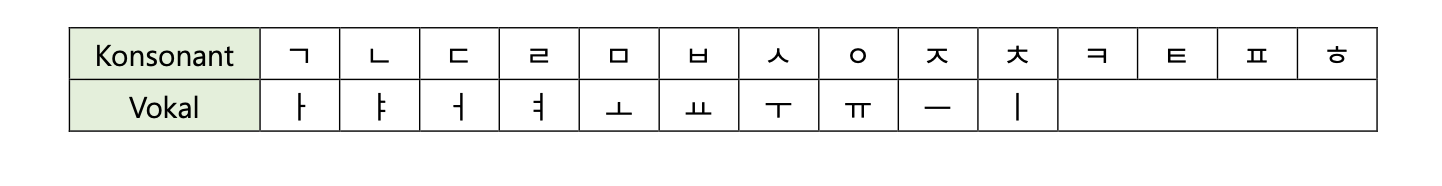
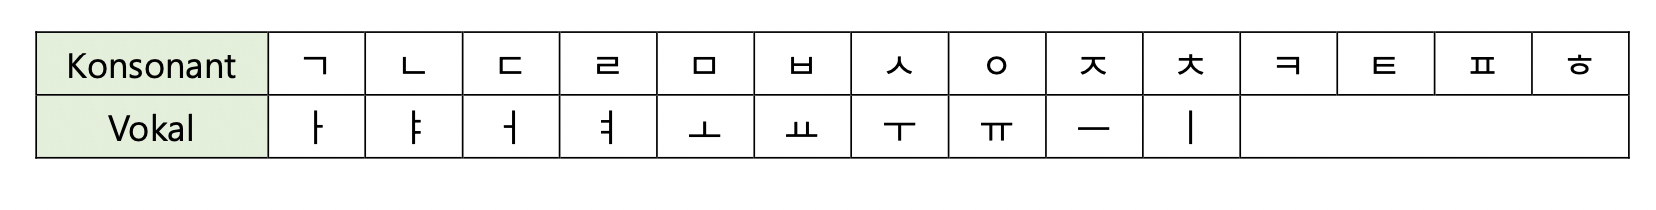
Bytt ut bilder i article och header, lagt in länk till mail, skrivit ett recept i aside och ändrat i marginaler på en del grejer..
Bytt ut bilder på sidan samt header, lagt in länk till mail, skrivit ett recept i aside samt ändrat lite på marginalerna på en del grejer.

Changed region(s): [[0.0, 0.1344, 0.9986, 0.7796]]

diff --git a/food.html b/food.html
@@ -13,22 +13,13 @@
 </head>
 
 <body>
-
-
-
-    font-size: 4rem;
-    background-color: rgba(255, 255, 255, 0.5);
-    color: black;
-    padding: 1rem;
-    }
-    </style>
     
     <header>
 
 
         <link rel="stylesheet" href="styles/style.css">
 
-        <img src="images/koreanfood.jpg" alt="bild på Bibimbap">
+        <img src="images/foodheader.jpg" alt="bild på koreansk mat">
         <span></span>
 
 
@@ -51,20 +42,54 @@
 
     <aside>
 
-        <h2>Några populära rätter</h2>
+        <style>aside li {
+            text-align: left;
+            margin-left: 40px;
+            }</style>
+
+        <h2>Recept på Bibimbap</h2>
         <div>
 
+            <h3>Ingredienser:</h3>
+            
+                <li>500 g strimlad lövbiff</li><br>
+                <li>1 msk kinesisk soja</li><br>
+                <li>2 msk riven färsk ingefära</li><br>
+                <li>1 tsk sesamolja</li><br>
+                <li>1 hackad vitlöksklyfta</li><br>
+                <li>1 msk olja</li><br>
+                <li>3 msk japansk soja</li><br>
+                <li>150 g böngroddar</li><br>
+                <li>½ gurka i tunna skivor</li><br>
+                <li>2 krm salt</li><br>
+                <li>1 msk vitvinsvinäger</li><br>
+                <li>2 tsk sesamolja</li><br>
+                <li>4 ägg</li><br>
+                <li>2 tsk sesamfrön</li><br>
+<br>
+                <h3>Till servering:</h3>
+                <br>
+                <li>basmatiris</li><br>
+                <li>kimchi</li><br>
+                <li>stark chilisås</li><br>
+                <li>japansk soja</li><br>
+           
+<hr><br>
+            <h2>Gör så här</h2>
 
-            Några populära koreanska maträtter:
             <ol>
-                <li>Kimchi</li><br>
-                <li>Instant Ramen</li><br>
-                <li>Bibimbap</li><br>
-                <li>Korean BBQ</li><br>
-                <li>Kimbap</li><br>
-                <li>Army Stew</li><br>
-                <li>Soju</li><br>
+                <li>Blanda lövbiffen med kinesisk soja, ingefära, sesamolja och vitlök och fräs i olja. Häll över japansk soja.</li><br>
+                <li>Blanda böngroddar, gurka, salt, vinäger och sesamolja. Stek äggen lätt på en sida. Strö över sesamfrön.</li><br>
+                <li>Bottna med kokt basmatiris i en skål. Fyll på med lövbiff, böngroddar, gurka och kimchi i grupper. Toppa med ägget. Servera med stark chilisås och japansk soja.</li><br>
             </ol>
+
+            <p>Receptet är hämtat från <a href="https://recept.se/recept/koreansk-bibimbap"
+                target="_blank">recept.se</a>
+       
+
+            
+
+
 
 
         </div>
@@ -104,7 +129,7 @@
 
                     <figure class="item">
 
-                        <img src="images/koreanfood.jpg" alt="Bild på maträtten Bibimbap">
+                        <img src="images/bibimbap.jpg" alt="Bild på maträtten Bibimbap">
                         <figcaption>Bibimbap är en koreansk maträtt där mängder av goda tillbehör serveras tillsammans
                             med ris. Marinerad entrecôte och grönsaker som spenat, böngroddar eller gurka är exempel på
                             toppings som är vanliga. Och självklart – ett stekt ägg på toppen!</figcaption>
@@ -113,15 +138,20 @@
 
                     <figure class="item">
 
-                        <img src="images/banchan.jpg" alt="Bild på Banchans">
-                        <figcaption>Banchan är sidorätter man får till maten. Ibland kan man få över 20 rätter. Det är
-                            oftast gratis påfyllning av dessa.</figcaption>
+                        <img src="images/tteokbokki.jpg" alt="Maträtten tteokbokki">
+                        <figcaption>Tteokbokki är en koreansk rätt gjord med tteok-myeon (tunn riskaka) som
+                            huvudingrediens. Tteokbokki är en typisk koreansk gatuköksrätt som är wokad med kryddor som
+                            veteriskaka, riskaka, fiskkaka, grönsaker och röd paprikapasta. Den smaksätts vanligtvis med
+                            röd paprikapasta men finns även smaksatt med sojasås.</figcaption>
 
                     </figure>
                     <figure class="item">
 
-                        <img src="images/kimchi.jpg" alt="">
-                        <figcaption>Kimchi, en kryddstark grönsaksrätt som är Koreas nationalrätt</figcaption>
+                        <img src="images/Kalguksu.jpg" alt="Maträtten Kal-guksu">
+                        <figcaption>Kal-guksu är en koreansk nudelrätt som består av handgjorda, knivskurna
+                            vetemjölsnudlar serverade i en stor skål med buljong och andra ingredienser. Det anses
+                            traditionellt vara en säsongsbetonad mat som oftast konsumeras på sommaren. Dess namn kommer
+                            från det faktum att nudlarna inte kavlas ut eller snurras, utan skärs ut.</figcaption>
 
                     </figure>
                     <figure class="item">
@@ -137,24 +167,25 @@
                     <figure class="item">
 
                         <img src="images/kimbap.jpg" alt="Maträtten Kimbap">
-                        <figcaption>Maträtten Kimbap betyder sjögräsris på koreanska. Kim = Sjögräs och Bap = ris. Det
+                        <figcaption>Maträtten Kimbap betyder sjögräsris på koreanska. Det
                             är en maträtt som görs genom att tillsätta olika ingredienser som spenat, inlagd rädisa,
                             morötter, ägg och kardborrerot till ris kryddat med salt och sesamolja. Den rullas in i
-                            torkat sjögräs och skivas i lagom stora bitar. Denna rätt är en favoriträtt för picknick
-                            eller resor.</figcaption>
+                            torkat sjögräs och skivas i lagom stora bitar. </figcaption>
 
                     </figure>
+
+        
+                </div>
+
+                <div class="gallery container">
+
                     <figure class="item">
 
-                        <img src="images/tteokbokki.jpg" alt="Maträtten tteokbokki">
-                        <figcaption>Tteokbokki är en koreansk rätt gjord med tteok-myeon (tunn riskaka) som
-                            huvudingrediens. Tteokbokki är en typisk koreansk gatuköksrätt som är wokad med kryddor som
-                            veteriskaka, riskaka, fiskkaka, grönsaker och röd paprikapasta. Den smaksätts vanligtvis med
-                            röd paprikapasta men finns även smaksatt med sojasås.</figcaption>
+                        <img src="images/banchan.jpg" alt="Bild på Banchans">
+                        <figcaption>Banchan är sidorätter man får till maten. Ibland kan man få över 20 rätter. Det är
+                            oftast gratis påfyllning av dessa.</figcaption>
 
                     </figure>
-
-
 
                     <figure class="item">
 
@@ -166,21 +197,19 @@
                     </figure>
                     <figure class="item">
 
-                        <img src="images/Kalguksu.jpg" alt="Maträtten Kal-guksu">
-                        <figcaption>Kal-guksu är en koreansk nudelrätt som består av handgjorda, knivskurna
-                            vetemjölsnudlar serverade i en stor skål med buljong och andra ingredienser. Det anses
-                            traditionellt vara en säsongsbetonad mat som oftast konsumeras på sommaren. Dess namn kommer
-                            från det faktum att nudlarna inte kavlas ut eller snurras, utan skärs ut.</figcaption>
+                        <img src="images/kimchi.jpg" alt="">
+                        <figcaption>Kimchi, en kryddstark grönsaksrätt som är Koreas nationalrätt</figcaption>
 
                     </figure>
+                   
                     <figure class="item">
 
                         <img src="images/bingsu.jpg" alt="Desserten Bingsu">
                         <figcaption>Bingsu är en koreansk dessert av hyvlad is med söta pålägg som exempelvis hackad
                             frukt, kondenserad mjölk, fruktsirap och röda bönor. Den vanligaste varianten är
                             ”pat-bingsu", med röda bönor på toppen.</figcaption>
+                        </figure>
 
-                    </figure>
                 </div>
 
 

diff --git a/language.html b/language.html
@@ -16,7 +16,7 @@
   
     <link rel="stylesheet" href="styles/style.css">
 
-    <img src="images/KoreaMap.jpg" alt="Karta över Sydkorea">
+    <img src="images/lights.jpg" alt="Rislampor med hangul på">
     <span></span>
 
 
@@ -48,6 +48,14 @@
     <li>얼마예요 – Eol-ma-ye-yo? – Hur mycket kostar det?</li><br>
     <button id="start5">Spela "얼마예요"</button><br><br>
   
+    <hr>
+    <br><br><br><br>
+
+    <div>
+
+        <p id="mail_link">
+            Om du vill lära dig koreanska, kontakta mig via <a href="mailto:madelenejlundgren@hotmail.com">mail.</a></p>
+    </div>
 
 </aside>
 
@@ -69,7 +77,7 @@
         <br><br>
 
             <figure>
-                <img src="images/Hangul.jpg" alt="Vokaler och konsonanter i Hangul" width="620">
+                <img src="images/hangul.jpg" alt="Vokaler och konsonanter i Hangul" width="620">
                 <figcaption> <i>Hangul är ett koreanskt alfabet som skapades av Kung Sejong under Joseon-dynastin. Det består av 14 konsonanter och 10 vokaler.</i> </figcaption>
             </figure>
 
@@ -97,13 +105,6 @@
 <footer>
     <div class="wrapper">
         <h3>Madelene Lundgren <br> Distanskursen Webbprogrammering</h3> <br>
-
-
-        <div>
-
-            <p id="mail_link">
-                Kontakta mig via <a href="mailto:madelenejlundgren@hotmail.com">mail.</a></p>
-        </div>
     
 
     </div>

diff --git a/styles/style.css b/styles/style.css
@@ -165,9 +165,7 @@ aside h2 {
     
 }
 
-aside #mail_link {
-    margin-left: 4%
-}
+
 
 
 aside blockquote {
@@ -176,6 +174,12 @@ margin-left: 8px;
     font-size: 16px;
 
 }
+
+aside ol {
+    margin-right: 40px;
+}
+
+
 
 aside div {
     text-align: center;
@@ -258,8 +262,8 @@ div.wrapper img {
 
 div.gallery {
     background-color: white;
-    box-sizing: flex-box;
-    display: flex;
+    box-sizing:flex-box;
+    display:flex;
 
 }
 
@@ -275,11 +279,13 @@ figure.item {
 figure.item img {
     width: 100%;
     text-align: center;
+
 }
 
 figure.item figcaption {
     padding: 10px;
     text-align: center;
+    
 }
 
 figure.item img:hover {

diff --git a/places.html b/places.html
@@ -17,7 +17,7 @@
   
     <link rel="stylesheet" href="styles/style.css">
 
-    <img src="images/KoreaMap.jpg" alt="Karta över Sydkorea">
+    <img src="images/seoul.jpg" alt="Bild på Seoul">
     <span></span>
 
 

diff --git a/culture.html b/culture.html
@@ -35,6 +35,14 @@
 
 <aside>
 
+    <style>
+
+        aside div {
+            margin-left: 20px;
+            margin-right: 20px;
+        }
+    </style>
+
     <h2>Koreansk kultur i Sverige</h2>
 
     <div>
